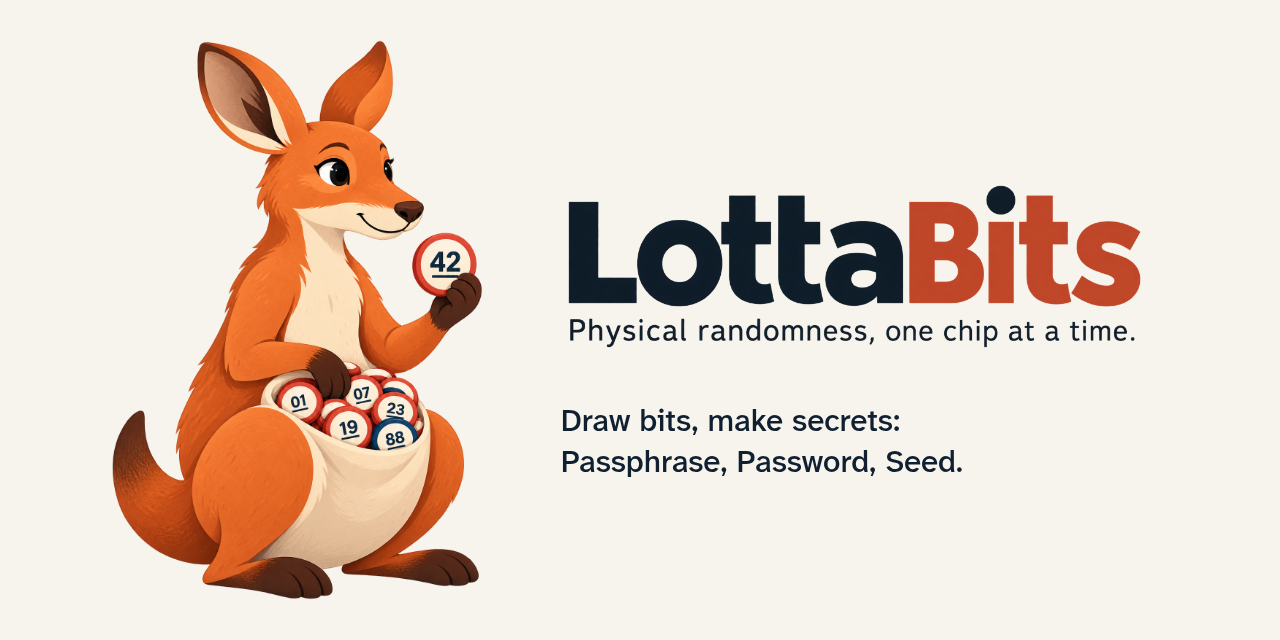
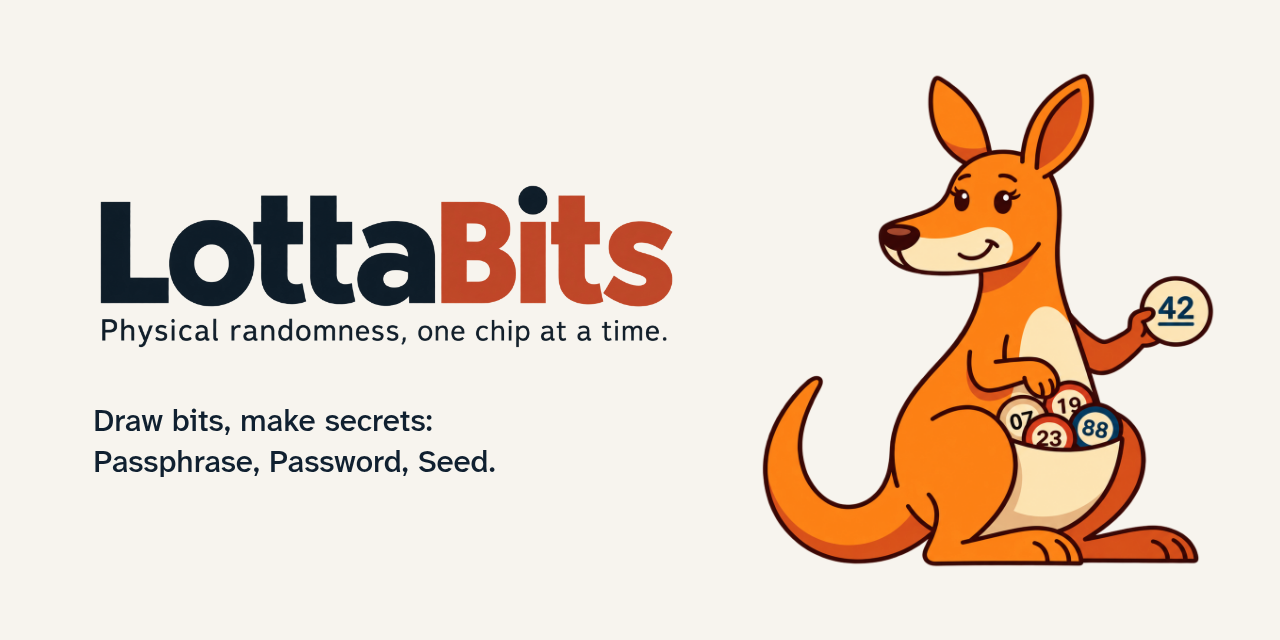
Replace Lotta with a cleaner, flat version
The new drawing reads better at README size and on dark backgrounds.
The social preview now shows her on the right, looking at the wordmark.

Claude-Session: https://claude.ai/code/session_013fog96jEvYLzZVWsnjwASe

diff --git a/docs/assets/README.md b/docs/assets/README.md
@@ -2,7 +2,7 @@
 
 | File | What |
 |---|---|
-| `lotta.png` | Lotta, the LottaBits mascot: a kangaroo whose pouch is the bag the chips are drawn from (1024 × 1536, transparent) |
+| `lotta.png` | Lotta, the LottaBits mascot: a kangaroo whose pouch is the bag the chips are drawn from (972 × 1062, transparent) |
 | `logo.png` | wordmark with claim, for light backgrounds (2172 × 724, transparent) |
 | `logo-dark.png` | the same wordmark for dark backgrounds: the navy parts recoloured to `#F7F4EE`, nothing else changed |
 | `social-preview.png` | 1280 × 640 image for link previews (GitHub repository settings → Social preview) |

diff --git a/README.md b/README.md
@@ -1,5 +1,5 @@
 <p align="center">
-  <img src="docs/assets/lotta.png" alt="Lotta, the LottaBits kangaroo, holding up chip 42, her pouch full of numbered chips" width="140">
+  <img src="docs/assets/lotta.png" alt="Lotta, the LottaBits kangaroo, holding up chip 42, her pouch full of numbered chips" width="160">
 </p>
 
 <h1 align="center">
